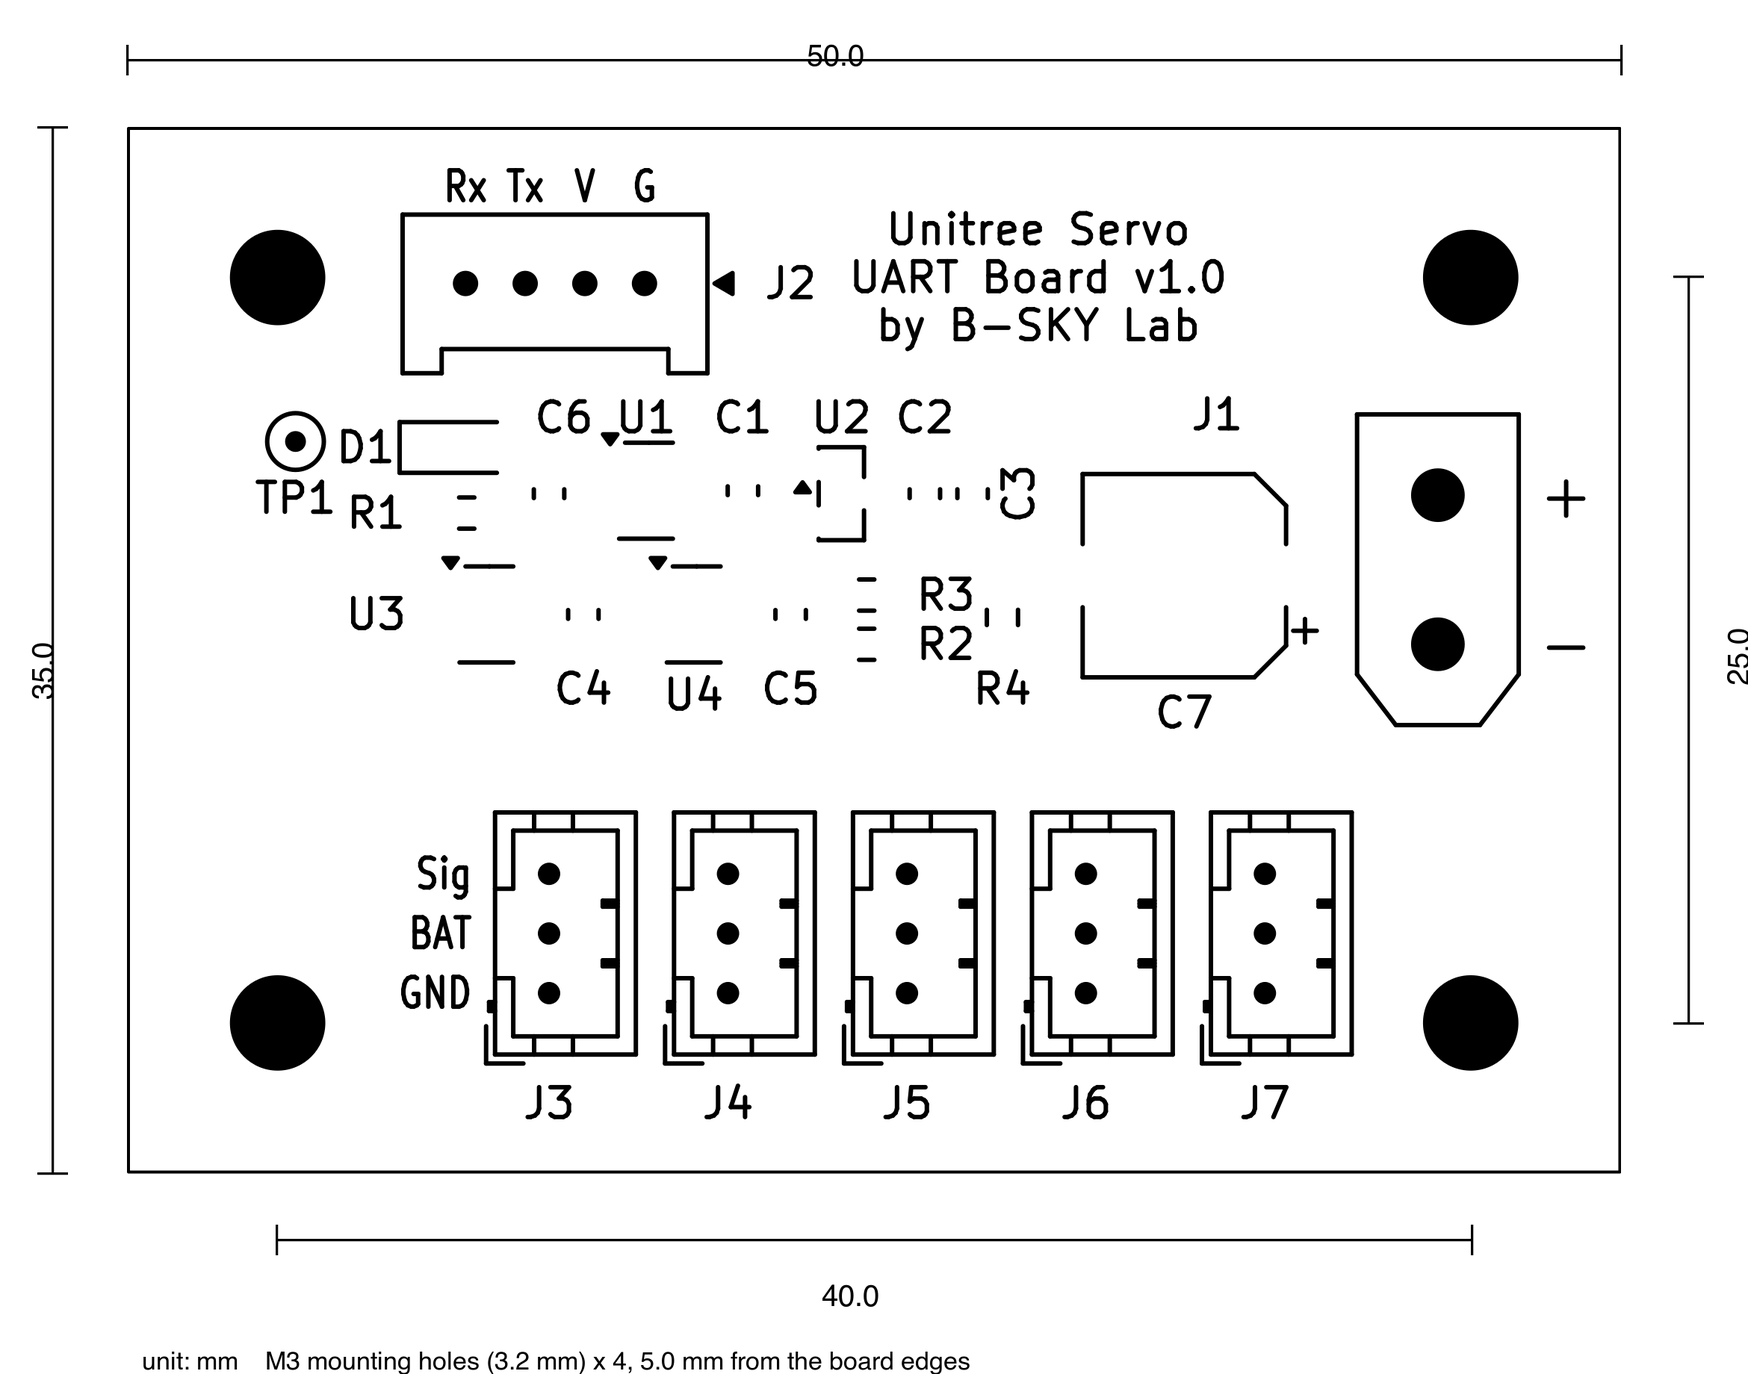
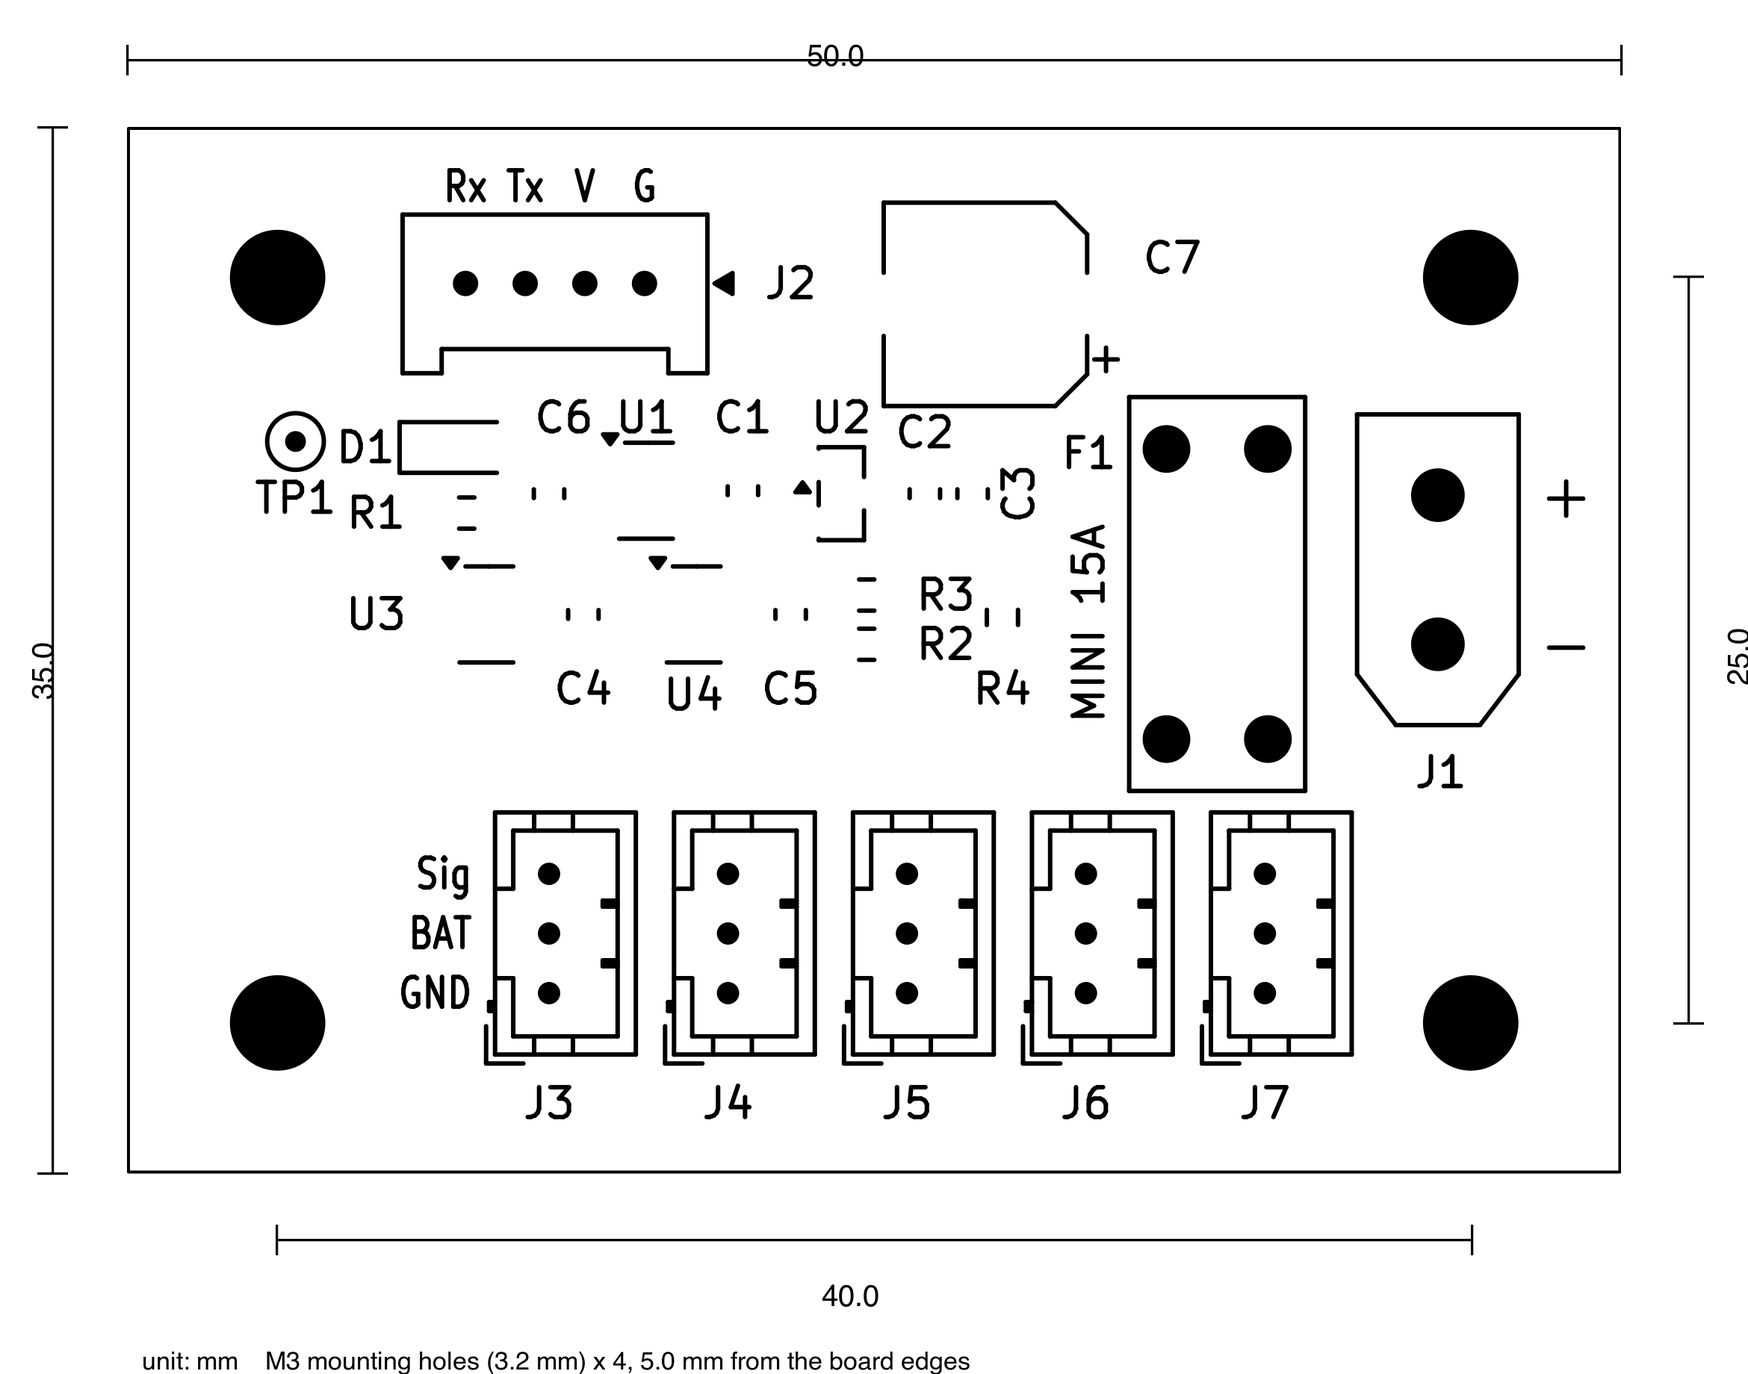
Document the fuse
README: pin assignment, how to choose the fuse rating, specifications, BOM,
the F1A / F1B clips in the JLCPCB files and the 3D model command. Design
document: the decision and its reasons, the layout, the footprint and the
JLCPCB handling, and the protection still missing (reverse polarity, ESD).
The README images show the new layout.

Claude-Session: https://claude.ai/code/session_01WJ1YBGdXpG8xhBv94Snq4Y

Changed region(s): [[0.4679, 0.1239, 0.7487, 0.5886], [0.8111, 0.5576, 0.8423, 0.5886]]

diff --git a/docs/design.md b/docs/design.md
@@ -13,7 +13,8 @@
 | 通信速度 | 4 Mbps (8N1、半二重) だけを扱う。サーボのボーレートは、使う前にユーザが Unitree の公式ツールで 4 Mbps に変更しておく | 送信の自動切り替えのタイミング (設計メモ §6.3) と実機での測定を 4 Mbps で行った。速度が上がると 1 ビットが短くなり、余裕が減る |
 | ロジック | すべて 3.3 V。J2 の 5 V から U2 (XC6206P332MR、200 mA) で作る | ホスト (ESP32-S3) が 3.3 V で、サーボのバスも 3.3 V 駆動で実績がある。消費は数 mA なので、LDO に特別な性能は要らない |
 | J1 | XT30UPB-M (縦型、15 A)。1 = −、2 = + (BAT) | サーボ 5 台分の電流 (最悪 9.6 A) を流す |
-| C7 | 100 µF 50 V の電解コンデンサを J1 の直後に置く | 電源ケーブルのインダクタンスとサーボ内部のコンデンサが作る、挿入時の電圧の跳ね上がりを抑える。J288 は最大 25.2 V なので耐圧 50 V |
+| F1 | ミニ平型ヒューズ (ISO 8820-3、Littelfuse MINI 297 / Bussmann ATM 相当、32 V、遮断容量 1000 A) を J1 の + と BAT の間に入れる。ホルダーは Keystone 3557 のクリップ 2 個。ヒューズは付属しない (ユーザが差す)。定格は J288 × 5 台で 15 A | 基板と電源配線の短絡で、リポの大電流が流れ続けないようにする。ミニ平型は日本のカー用品店などで手に入り、基板に収まる大きさ。15 A は最悪 9.6 A の 1.33 倍以上で、J1 (XT30、15 A) を超えない。台数が少ないときは定格を下げる (1〜2 台で 5 A)。1 ポートだけの過電流 (PH は 1 ピン 2 A) は防げない。差したヒューズの頂上は基板から約 16.3 mm で、基板で最も高い (XT30 は約 10.7 mm) |
+| C7 | 100 µF 50 V の電解コンデンサを F1 の直後に置く | 電源ケーブルのインダクタンスとサーボ内部のコンデンサが作る、挿入時の電圧の跳ね上がりを抑える。J288 は最大 25.2 V なので耐圧 50 V |
 | J2 | Grove (HY2.0-4P、ZX-HY2.0-4PZZ)。1 = GND、2 = +5V、3 = TX (ホストの TX から)、4 = RX (ホストの RX へ) | M5Stack の PORT.C (黄 = ホストの TX、白 = ホストの RX) とストレートの Grove ケーブルで合う。AtomS3R では G2 = TX、G1 = RX |
 | J3〜J7 | JST PH 2.0 の 3 ピン縦型 (B3B-PH-K-S)。1 = GND、2 = BAT、3 = signal。5 個並列 | Unitree J288 / S288 のサーボ側と付属ケーブルが PH 2.0。番号はサーボ本体のヘッダと同じなので、付属のストレートケーブルをそのまま挿せる |
 | ポートの電流 | PH は 1 ピン 2 A。J288 (最大 1.92 A) は 1 ポートに 1 台まで | サーボ側のコネクタと同じ制約 |
@@ -43,7 +44,9 @@
 | ベタ: GND は表面 (裏面の残りも GND)、BAT は裏面 (優先度 1)。BAT のベタの外周は GND のベタの外周に揃える | BAT の戻り電流が真上の GND を通る。細い GND の切れ端を残さない |
 | ベタのクリアランス 0.5 mm、最小幅 0.25 mm。`.kicad_dru` のルールで固定 | JLCPCB のクリアランス 0.15 mm のルールだけだと、KiCad で塗り直したときにベタのクリアランスまで 0.15 mm に変わる |
 | ベタや配線に 90° の入り隅や矩形の切り欠きを作らない。45° で面取りする | 電流が角に集中しないようにする。レビューで指摘された |
-| J1 はゾーンに全面で接続。ポートの BAT 列 (裏面) と GND 列 (表面) は幅 2.3 mm の直線配線で結ぶ。J1 から C7 は 1.5 mm | 大電流の経路にくびれを残さない。2.3 mm は熱逃がしの輪 (外径 2.25 mm) を覆う幅 |
+| J1 と F1 のパッドはゾーンに全面で接続。ポートの BAT 列 (裏面) と GND 列 (表面) は幅 2.3 mm の直線配線で結ぶ | 大電流の経路にくびれを残さない。2.3 mm は熱逃がしの輪 (外径 2.25 mm) を覆う幅 |
+| F1 は J1 のすぐ左に縦向きに置く。J1 の + から上のクリップまでは表面の BAT_IN のベタ (優先度 1)、下のクリップはすぐ下のポートの BAT の帯 (裏面) へつなぐ | 15 A までの電流が J1 → F1 → ポートとまっすぐ流れる。BAT_IN は表面だけなので、裏面の BAT のベタが下をくぐれる |
+| C7 は上側 (基板端から 2.57 mm) に置き、+ は裏面の BAT のベタ (F1 の左を上がる) にビアでつなぐ。基板名のシルクは裏面へ移した | F1 を J1 のそばに置くための並べ替え。C7 はリップルだけなので細い経路でよい |
 | C7 の − パッドは GND のベタにサーマルリリーフでつなぐ | サーボの電流は C7 を通らず、リップル (許容 350 mA) だけ。スポークの容量は約 6.7 A。ベタに全面でつなぐと、リフローで左右のパッドの温まり方がずれる |
 | ビア (φ0.605 mm、穴 0.3 mm) は、その銅が他ネットの配線のクリアランス (0.5 mm) に入らない位置に置く | 入ると、ベタの縁にビアの形の出っ張りができる |
 | 配線幅: 信号 0.25 mm、電源 0.3〜0.4 mm | |
@@ -59,9 +62,11 @@
   - J2 は ZX-HY2.0-4PZZ 用に作った。パッド 1.35 × 1.75 mm、穴 0.85 mm (JLCPCB のランドパターンと同じ穴)、ランド幅 0.25 mm。
   - PH のコピーはパッド幅を 1.25 mm に広げた (KiCad 標準の 1.2 mm ではランド幅が 0.225 mm)。
   - J1 (XT30UPB) も作ったもの。
+  - F1 (`Fuseholder_Blade_Mini_Keystone_3557x2`) は、Keystone 3557 のクリップ 2 個を、ミニ平型用の取り付け寸法 (足の間隔 9.73 mm、1 個の足 2 本は 3.40 mm、穴 1.6 mm) で並べたもの。クリップの本体はヒューズの中心側に張り出す向きで、刃の間隔は 8.22 mm になる。パッドはゾーンに全面で接続する。生成スクリプトは `work/fuse_fp.py`。
 - **3D モデル**: J1・J2 の STEP は LCSC が EasyEDA で公開しているもの (作成者 lcsc)。再配布してよいか確認できていないので git に入れない。取得手順は README。
   - J2 のオフセットは (0, −0.35, −0.3) mm。STEP の原点が本体中心で、0.3 mm 浮いているため。
   - J1 のオフセットは (+2.5, 0, 0) mm。
+  - F1 のクリップ (EasyEDA C2680614 の STEP) は、足がモデルの原点から 5.855 mm 離れているので、回転 90° (KiCad) とオフセット −5.855 mm で足を穴に合わせる (テスト基板の描画で確認)。
   - オフセットは 3D 表示と STEP 出力にだけ効き、JLCPCB に渡すファイルには含まれない。
 
 ## 5. JLCPCB の部品実装 (PCBA)
@@ -76,7 +81,8 @@
   - D1 は同じ型番の Preferred Extended 品 (C7502691) に、U2 は DYNAMIXEL 版から流用していた AP7333-33SAG (Extended、在庫が少ない) を Basic の XC6206P332MR-G (C5446) に替えた。XC6206 はピン配置が違う (1 = GND、2 = 出力、3 = 入力) ので、回路図の記号と U2 まわりの配線を替えた。
   - U1・U3・U4 (74LVC1G は Basic と Preferred に代わりがなく、74HC は 3.3 V で遅い)、C7、コネクタは Extended のまま (計 7 品番)。
   - 品番やフットプリントを変えたら、補正を求め直し、照合をやり直す。照合に使うランドパターンは `work/jlc/` にある (git 管理外)。
-- **発注時**: JLCPCB の配置プレビューで向きを確かめる (D1、IC の 1 番ピン、C7 の極性、コネクタ)。
+- **F1 は 2 部品**: ホルダーはクリップ 2 個なので、`tools/jlcpcb_export.py` が F1 を F1A (1 番パッドのクリップ) と F1B (2 番) に分けて BOM と CPL に出す。位置は各クリップの足 2 本の中点、回転は F1 の回転にそれぞれ +180° と 0° を足す (JLCPCB のランドパターンは本体が −x 側に張り出す向き)。ヒューズ本体は JLCPCB では実装しない。
+- **発注時**: JLCPCB の配置プレビューで向きを確かめる (D1、IC の 1 番ピン、C7 の極性、コネクタ、F1 のクリップが向き合っていること)。
 
 ## 6. 回路図
 
@@ -113,11 +119,13 @@
 | ERC で、DYNAMIXEL 版から来た線の格子ずれの警告が 17 件出た | J3〜J7 を格子に乗せて描き直した | 同上 |
 | J2 の Tx / Rx の並びが M5Stack と合っているか | DYNAMIXEL 版と PORT.C の公式の表で確かめた | ピン配置は公式の資料と既存の実績の両方で確かめる |
 | 斜めの 3D でシルクの文字が読みにくい | 傾きを 30° にした (§7) | 画像は、見たいものが読める角度で撮る |
+| BAT に保護がなく、短絡するとリポの大電流が流れ続ける | ミニ平型ヒューズ F1 を J1 の後ろに入れた (§1、§3) | 電源の入口には、短絡で電流を断つ手段を置く。部品は日本で手に入り、JLCPCB で実装できるものから選ぶ |
 
 ## 9. 未決事項
 
 - `docs/` に残る DYNAMIXEL 版の画像 (`board_assembled*.jpg`、`pin_assign*.png`、`schematics*.png`、`size.png`) と `example_m5core2_dynamixel_arduino_ide/` の扱い。
 - ユーザによる、元にした回路 (設計メモ §6) との突き合わせレビュー (予定)。
+- 逆接続の保護と、信号線の ESD 保護はない (保護はヒューズだけ)。
 - サーボ側の信号電圧とプルアップを、まだ測っていない。R4 の値に関わる (設計メモ §6.4、§9)。
 - 試作基板の検証は、設計メモ §7 の計画と合格基準に従う。
 - README のサンプルコードは準備中。

diff --git a/README.md b/README.md
@@ -24,12 +24,15 @@ This board connects Unitree J288 / S288 brushless digital servos to an M5Stack c
 | コネクタ | 部品 | ピン |
 | --- | --- | --- |
 | J2 (M5Stack と接続) | Grove，HY2.0-4P | Rx = 基板からの受信データ (M5Stack の RX へ)，Tx = M5Stack の TX から，V = 5 V，G = GND |
-| J1 (サーボ電源) | XT30UPB-M | + = BAT，− = GND |
+| J1 (サーボ電源) | XT30UPB-M | + = BAT (F1 を通ってサーボへ)，− = GND |
+| F1 (ヒューズ) | ミニ平型ヒューズのホルダー (Keystone 3557 × 2) | J1 の + とサーボの BAT の間．ヒューズは付属しません |
 | J3〜J7 (サーボ) | JST PH 2.0 3 ピン | 1 = GND，2 = BAT，3 = Signal (サーボ本体のコネクタと同じ番号) |
 | TP1 | テストパッド | 送信イネーブル信号 (TXEN) の確認用 |
 
 - J2 の並びは M5Stack の PORT.C (黄 = TX，白 = RX) と同じです．ストレートの Grove ケーブルでつなぎます．AtomS3R では G2 が TX，G1 が RX です．
 - J3〜J7 は 5 個とも並列です．サーボ本体のコネクタと同じピン番号なので，サーボに付属の PH 2.0 ケーブル (両端の同じ番号のピン同士がつながるもの) をそのまま挿せます．
+- F1 にはミニ平型ヒューズ (自動車用，32 V) を差します．ヒューズは基板に付いていないので，カー用品店などで用意してください．定格は，つなぐサーボの最大電流の合計の 1.33 倍以上を目安に選びます．J288 を 5 台つなぐなら 15 A，1〜2 台なら 5 A です．J1 の XT30 の定格に合わせ，15 A より大きいヒューズは使わないでください．
+- F1 は基板と電源配線の短絡から守るためのものです．1 つのポートだけに流れる過電流 (PH は 1 ピン 2 A) は防げません．
 - J2 の 5 V で基板のロジック (3.3 V レギュレータ) が動きます．基板から M5Stack へは給電しないので，M5Stack は USB などで別に給電してください．
 
 ## Specifications
@@ -38,7 +41,8 @@ This board connects Unitree J288 / S288 brushless digital servos to an M5Stack c
 | --- | --- |
 | 外形 | 50 × 35 mm，M3 取り付け穴 × 4 (40 × 25 mm 間隔) |
 | サーボ電源 | J1 から入力．Unitree の推奨値は J288 が 25.2 V，S288 が 12.6 V (最低 6.4 V) |
-| 入力コンデンサ | 100 µF 50 V (C7) |
+| ヒューズ | ミニ平型 (Littelfuse MINI 297 / Bussmann ATM 相当，32 V)．J288 × 5 台で 15 A．付属しない |
+| 入力コンデンサ | 100 µF 50 V (C7，F1 の後ろ) |
 | ポートの電流 | 1 ピン 2 A (JST PH)．全力運転の J288 (最大 1.92 A) は 1 ポートに 1 台まで |
 | 通信 | 半二重 TTL，3.3 V，4 Mbps (8N1) のみ．サーボは使う前に公式ツールで 4 Mbps に設定する |
 
@@ -61,6 +65,7 @@ This board connects Unitree J288 / S288 brushless digital servos to an M5Stack c
 | C6 | 0603，C0G | 100 pF | C14858 |
 | C7 | 電解コンデンサ 6.3 × 7.7 mm | 100 µF 50 V | C3445238 |
 | J1 | XT30UPB-M | | C428721 |
+| F1 | Keystone 3557 × 2 (ミニ平型ヒューズのホルダー) | ヒューズは付属しない | C2680614 |
 | J2 | ZX-HY2.0-4PZZ | | C7429580 |
 | J3〜J7 | JST B3B-PH-K-S(LF)(SN) | | C131339 |
 
@@ -82,23 +87,24 @@ This board connects Unitree J288 / S288 brushless digital servos to an M5Stack c
 
 部品本体はすべて基板端から 2.5 mm 以上離してあるので，Economic PCBA でエッジレールなしで発注できます．
 JLCPCB の製造能力 (2 層，1 oz) の推奨値は DRC のルールファイル `m5stack_board_unitree_brushless_digital_servo.kicad_dru` に入れてあり，KiCad の DRC でそのまま確認できます．
-発注時は，JLCPCB の配置プレビューで部品の向き (D1，IC の 1 番ピン，C7 の極性，コネクタ) を確認してください．
+F1 のホルダーはクリップ 2 個なので，BOM と CPL では F1A と F1B の 2 部品として出力します．ヒューズ本体は JLCPCB では実装しません．
+発注時は，JLCPCB の配置プレビューで部品の向き (D1，IC の 1 番ピン，C7 の極性，コネクタ，F1 のクリップ) を確認してください．
 
-To make the files for JLCPCB assembly (Gerber, BOM, CPL), run `tools/jlcpcb_export.py` with the Python bundled with KiCad (command above). The files are written to `production/`. Every component body is at least 2.5 mm from the board edge, so Economic PCBA works without edge rails. The DRC rule file holds JLCPCB's recommended values (2 layers, 1 oz). Check the placement preview when ordering.
+To make the files for JLCPCB assembly (Gerber, BOM, CPL), run `tools/jlcpcb_export.py` with the Python bundled with KiCad (command above). The files are written to `production/`. Every component body is at least 2.5 mm from the board edge, so Economic PCBA works without edge rails. The DRC rule file holds JLCPCB's recommended values (2 layers, 1 oz). The fuse holder F1 is two clips, so the BOM and the CPL list it as F1A and F1B; the fuse itself is not assembled. Check the placement preview when ordering.
 
 ## NOTE
-J1 (XT30UPB) と J2 (HY2.0-4P) のフットプリントは，プロジェクト内のライブラリ `Library.pretty` (`fp-lib-table` に登録済み) にあります．
+J1 (XT30UPB)，J2 (HY2.0-4P)，F1 (ミニ平型ヒューズのホルダー，Keystone 3557 のクリップ 2 個) のフットプリントは，プロジェクト内のライブラリ `Library.pretty` (`fp-lib-table` に登録済み) にあります．
 ほかの部品も，KiCad 標準ライブラリのフットプリントをシルクの線幅だけ 0.15 mm に太らせたコピーを `Library.pretty` に置いて使っています (JLCPCB では 0.15 mm 未満の線や文字が判読できないため)．PH コネクタはパッド幅も 1.25 mm に広げています (JLCPCB 推奨のランド幅 0.25 mm)．
-J1 と J2 の 3D モデル (STEP) はリポジトリに含めていません．3D ビューアや STEP 出力で表示するには，リポジトリのルートで次のコマンドを実行してください．LCSC の部品 C428721 (J1) と C7429580 (J2) の 3D モデルを EasyEDA から取得し，`Library.3dshapes/` に保存します (easyeda2kicad 1.0.1 で確認)．
+J1，J2，F1 の 3D モデル (STEP) はリポジトリに含めていません．3D ビューアや STEP 出力で表示するには，リポジトリのルートで次のコマンドを実行してください．LCSC の部品 C428721 (J1)，C7429580 (J2)，C2680614 (F1 のクリップ) の 3D モデルを EasyEDA から取得し，`Library.3dshapes/` に保存します (easyeda2kicad 1.0.1 で確認)．
 
 ```bash
 pip install easyeda2kicad
-easyeda2kicad --3d --lcsc_id C428721 C7429580 --output Library
+easyeda2kicad --3d --lcsc_id C428721 C7429580 C2680614 --output Library
 ```
 
-The footprints of J1 (XT30UPB) and J2 (HY2.0-4P) are in the project library `Library.pretty` (registered in `fp-lib-table`).
+The footprints of J1 (XT30UPB), J2 (HY2.0-4P) and F1 (MINI blade fuse holder made of two Keystone 3557 clips) are in the project library `Library.pretty` (registered in `fp-lib-table`).
 The other parts also use copies of the KiCad library footprints in `Library.pretty`, changed only in the silkscreen width (0.15 mm), because JLCPCB cannot print legible lines or characters thinner than 0.15 mm. The PH connector copy also has 1.25 mm wide pads (JLCPCB's recommended 0.25 mm annular ring).
-The 3D models (STEP) of J1 and J2 are not included in this repository. To show them in the 3D viewer or in a STEP export, run the commands above in the repository root. They download the 3D models of LCSC parts C428721 (J1) and C7429580 (J2) from EasyEDA into `Library.3dshapes/` (checked with easyeda2kicad 1.0.1).
+The 3D models (STEP) of J1, J2 and F1 are not included in this repository. To show them in the 3D viewer or in a STEP export, run the commands above in the repository root. They download the 3D models of LCSC parts C428721 (J1), C7429580 (J2) and C2680614 (the F1 clips) from EasyEDA into `Library.3dshapes/` (checked with easyeda2kicad 1.0.1).
 
 ## Disclaimer
 MITライセンスでの公開です．本設計において生じた一切の損害等について作者は責任を負いません．予めご了承ください．
